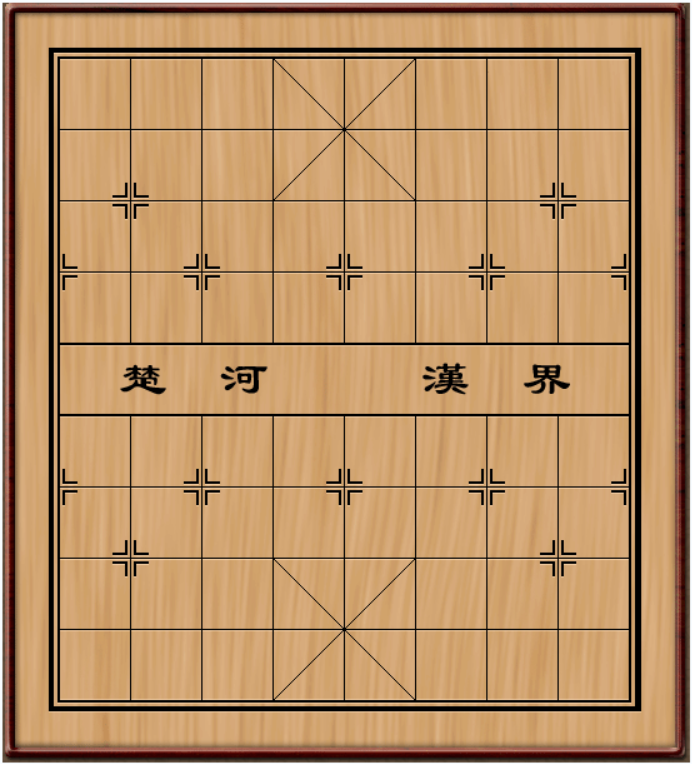
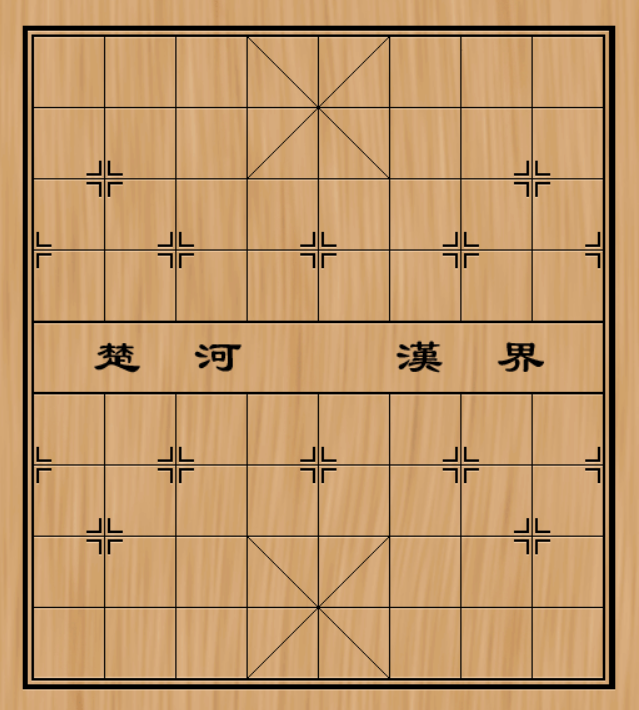
piece will automatically resize/reposition as the board resize

diff --git a/ChineseChess/src/edu/rpi/cs/csci4963/u20/hek2liaoy3wangy58yaol4/project/ChineseChess/Board.java b/ChineseChess/src/edu/rpi/cs/csci4963/u20/hek2liaoy3wangy58yaol4/project/ChineseChess/Board.java
@@ -72,59 +72,59 @@ public class Board extends JPanel implements MouseListener, MouseMotionListener 
 		for (int i = 1; i <= rowSize; i++) {
 			for (int j = 1; j <= colSize; j++) {
 				//System.out.println(i + " | " + j);
-				positionBoard[i][j] = new Position(i*pieceSize, j*pieceSize);
+				positionBoard[i][j] = new Position(i, j);
 			}
 		}
 
 
-		initializeAllPieces();
+//		initializeAllPieces();
 		
 	}
 	
 	/** this is the method that initialize all the pieces and place them to the desired position
 	 */
-	private void initializeAllPieces() {
+	public void initializeAllPieces() {
 		// Han side chess
 		// piece parameters: (PieceName, Side, size, Board)
-		R_R1 = new Piece(PieceName.Chariot, Side.Han, pieceSize, this);
-		R_K1 = new Piece(PieceName.Knight, Side.Han, pieceSize, this);
-		R_B1 = new Piece(PieceName.Bishop, Side.Han, pieceSize, this);
-		R_A1 = new Piece(PieceName.Advisor, Side.Han, pieceSize, this);
-		R_G = new Piece(PieceName.General, Side.Han, pieceSize, this);
-		R_A2 = new Piece(PieceName.Advisor, Side.Han, pieceSize, this);
-		R_B2 = new Piece(PieceName.Bishop, Side.Han, pieceSize, this);
-		R_K2 = new Piece(PieceName.Knight, Side.Han, pieceSize, this);
-		R_R2 = new Piece(PieceName.Chariot, Side.Han, pieceSize, this);
+		R_R1 = new Piece(PieceName.Chariot, Side.Han, pieceSize,pieceSize, this);
+		R_K1 = new Piece(PieceName.Knight, Side.Han, pieceSize,pieceSize, this);
+		R_B1 = new Piece(PieceName.Bishop, Side.Han, pieceSize,pieceSize, this);
+		R_A1 = new Piece(PieceName.Advisor, Side.Han, pieceSize,pieceSize, this);
+		R_G = new Piece(PieceName.General, Side.Han, pieceSize,pieceSize, this);
+		R_A2 = new Piece(PieceName.Advisor, Side.Han, pieceSize,pieceSize, this);
+		R_B2 = new Piece(PieceName.Bishop, Side.Han, pieceSize,pieceSize, this);
+		R_K2 = new Piece(PieceName.Knight, Side.Han, pieceSize,pieceSize, this);
+		R_R2 = new Piece(PieceName.Chariot, Side.Han, pieceSize,pieceSize, this);
 
-		R_C1 = new Piece(PieceName.Cannon, Side.Han, pieceSize, this);
-		R_C2 = new Piece(PieceName.Cannon, Side.Han, pieceSize, this);
+		R_C1 = new Piece(PieceName.Cannon, Side.Han, pieceSize,pieceSize, this);
+		R_C2 = new Piece(PieceName.Cannon, Side.Han, pieceSize,pieceSize, this);
 
-		R_P1 = new Piece(PieceName.Pawn, Side.Han, pieceSize, this);
-		R_P2 = new Piece(PieceName.Pawn, Side.Han, pieceSize, this);
-		R_P3 = new Piece(PieceName.Pawn, Side.Han, pieceSize, this);
-		R_P4 = new Piece(PieceName.Pawn, Side.Han, pieceSize, this);
-		R_P5 = new Piece(PieceName.Pawn, Side.Han, pieceSize, this);
+		R_P1 = new Piece(PieceName.Pawn, Side.Han, pieceSize,pieceSize, this);
+		R_P2 = new Piece(PieceName.Pawn, Side.Han, pieceSize,pieceSize, this);
+		R_P3 = new Piece(PieceName.Pawn, Side.Han, pieceSize,pieceSize, this);
+		R_P4 = new Piece(PieceName.Pawn, Side.Han, pieceSize,pieceSize, this);
+		R_P5 = new Piece(PieceName.Pawn, Side.Han, pieceSize,pieceSize, this);
 
 		// Chu side chess
 		// piece parameters: (PieceName, Side, size, Board)
-		B_R1 = new Piece(PieceName.Chariot, Side.Chu, pieceSize, this);
-		B_K1 = new Piece(PieceName.Knight, Side.Chu, pieceSize, this);
-		B_B1 = new Piece(PieceName.Bishop, Side.Chu, pieceSize, this);
-		B_A1 = new Piece(PieceName.Advisor, Side.Chu, pieceSize, this);
-		B_G = new Piece(PieceName.General, Side.Chu, pieceSize, this);
-		B_A2 = new Piece(PieceName.Advisor, Side.Chu, pieceSize, this);
-		B_B2 = new Piece(PieceName.Bishop, Side.Chu, pieceSize, this);
-		B_K2 = new Piece(PieceName.Knight, Side.Chu, pieceSize, this);
-		B_R2 = new Piece(PieceName.Chariot, Side.Chu, pieceSize, this);
+		B_R1 = new Piece(PieceName.Chariot, Side.Chu, pieceSize,pieceSize, this);
+		B_K1 = new Piece(PieceName.Knight, Side.Chu, pieceSize,pieceSize, this);
+		B_B1 = new Piece(PieceName.Bishop, Side.Chu, pieceSize,pieceSize, this);
+		B_A1 = new Piece(PieceName.Advisor, Side.Chu, pieceSize,pieceSize, this);
+		B_G = new Piece(PieceName.General, Side.Chu, pieceSize,pieceSize, this);
+		B_A2 = new Piece(PieceName.Advisor, Side.Chu, pieceSize,pieceSize, this);
+		B_B2 = new Piece(PieceName.Bishop, Side.Chu, pieceSize,pieceSize, this);
+		B_K2 = new Piece(PieceName.Knight, Side.Chu, pieceSize,pieceSize, this);
+		B_R2 = new Piece(PieceName.Chariot, Side.Chu, pieceSize,pieceSize, this);
 
-		B_C1 = new Piece(PieceName.Cannon, Side.Chu, pieceSize, this);
-		B_C2 = new Piece(PieceName.Cannon, Side.Chu, pieceSize, this);
+		B_C1 = new Piece(PieceName.Cannon, Side.Chu, pieceSize,pieceSize, this);
+		B_C2 = new Piece(PieceName.Cannon, Side.Chu, pieceSize,pieceSize, this);
 
-		B_P1 = new Piece(PieceName.Pawn, Side.Chu, pieceSize, this);
-		B_P2 = new Piece(PieceName.Pawn, Side.Chu, pieceSize, this);
-		B_P3 = new Piece(PieceName.Pawn, Side.Chu, pieceSize, this);
-		B_P4 = new Piece(PieceName.Pawn, Side.Chu, pieceSize, this);
-		B_P5 = new Piece(PieceName.Pawn, Side.Chu, pieceSize, this);
+		B_P1 = new Piece(PieceName.Pawn, Side.Chu, pieceSize,pieceSize, this);
+		B_P2 = new Piece(PieceName.Pawn, Side.Chu, pieceSize,pieceSize, this);
+		B_P3 = new Piece(PieceName.Pawn, Side.Chu, pieceSize,pieceSize, this);
+		B_P4 = new Piece(PieceName.Pawn, Side.Chu, pieceSize,pieceSize, this);
+		B_P5 = new Piece(PieceName.Pawn, Side.Chu, pieceSize,pieceSize, this);
 		
 		// (x , y)
 		positionBoard[1][10].placePiece(R_R1, this);
@@ -206,18 +206,19 @@ public class Board extends JPanel implements MouseListener, MouseMotionListener 
 			j++;
 		}
 		
-//		for (int i = 1; i <= rowSize; i++) {
-//			for (int k = 1; k <= colSize; k++) {
-//				//System.out.println(i + " | " + j);
-//				if(positionBoard[i][k].getPiece() != null) {					
-////					positionBoard[i][k].getPiece().setLocation(200,200);
+		for (int i = 1; i <= rowSize; i++) {
+			for (int k = 1; k <= colSize; k++) {
+				//System.out.println(i + " | " + j);
+				if(positionBoard[i][k].getPiece() != null) {						
+					positionBoard[i][k].rePlacePiece();					
+//					positionBoard[i][k].getPiece().setLocation(200,200);
 //					positionBoard[i][k].getPiece().validate();
 //					positionBoard[i][k].getPiece().repaint();
-////					positionBoard[i][k].getPiece().setVisible(true);
-////					System.out.println(positionBoard[i][k].getPiece().toString()); 
-//				}
-//			}
-//		}
+//					positionBoard[i][k].getPiece().setVisible(true);
+//					System.out.println(positionBoard[i][k].getPiece().toString()); 
+				}
+			}
+		}
 		
 		
 		try {

diff --git a/ChineseChess/src/edu/rpi/cs/csci4963/u20/hek2liaoy3wangy58yaol4/project/ChineseChess/Piece.java b/ChineseChess/src/edu/rpi/cs/csci4963/u20/hek2liaoy3wangy58yaol4/project/ChineseChess/Piece.java
@@ -16,6 +16,7 @@ public class Piece extends JLabel{
 	private PieceName name; // the classification of the piece
 	private Side side; // the side of the chess piece
 	private int length; // the length of the piece to be painted
+	private int width; // the width of the piece to be painted
 	private int padding = 2; // the padding for drawing content
 	private Board board; // the board that this piece lies on
 	//TODO: Implement the interaction with the chess board(not yet implemented)
@@ -41,12 +42,14 @@ public class Piece extends JLabel{
 	 * @param nameIn the classification of the piece
 	 * @param side the side of the piece
 	 * @param length length of the piece (length parameter)
+	 * @param width the width of the piece
 	 * @param board the board this piece lies on
 	 */
-	public Piece(PieceName nameIn, Side side, int length, Board board) {
+	public Piece(PieceName nameIn, Side side, int length, int width, Board board) {
 		this.name = nameIn;
 		this.side = side;
 		this.length = length;
+		this.width = width;
 		this.board = board;
 		setSize(length,length);
 		setBackground(Color.PINK);
@@ -147,6 +150,23 @@ public class Piece extends JLabel{
 	public int getLength() {
 		return length;
 	}
+	
+	
+	public void setLength(int len) {
+		this.length = len;
+	}
+	
+	public void setWidth(int wid) {
+		this.width = wid;
+	}
+	
+	
+	/** getter for width
+	 * @return width of the piece
+	 */
+	public int getWidth() {
+		return width;
+	}
 
 
 
@@ -156,7 +176,7 @@ public class Piece extends JLabel{
 		JFrame frame = new JFrame();
 		frame.setDefaultCloseOperation(JFrame.EXIT_ON_CLOSE);
 		frame.setBounds(100,100,300,300);
-		frame.add(new Piece(PieceName.General, Side.Han, 100, new Board(200,100,10)));
+		frame.add(new Piece(PieceName.General, Side.Han, 100,100, null));
 		frame.setVisible(true);
 	}
 

diff --git a/ChineseChess/src/edu/rpi/cs/csci4963/u20/hek2liaoy3wangy58yaol4/project/ChineseChess/Position.java b/ChineseChess/src/edu/rpi/cs/csci4963/u20/hek2liaoy3wangy58yaol4/project/ChineseChess/Position.java
@@ -61,10 +61,32 @@ public class Position {
 	public void placePiece(Piece p, Board b) {
 		this.piece = p;
 		this.board = b;
-		int size = p.getLength();	
+		
+		int len = board.getHeight()/10;
+		int wid = board.getWidth()/9;
+		
+		this.piece.setLength(len);
+		this.piece.setWidth(wid);
+		
+		System.out.println("wid:" + wid + "len:" + len);
+		
+//		int size = p.getLength();	
 		board.add(piece); // add the chess piece to the [x][y] coordinate
 		// set the position to the center of drawing by halving the unit size
-		piece.setBounds(this.x - size/2, this.y - size/2, size, size);
+		piece.setBounds(this.x * wid - wid, this.y*len - len, wid, len);
+		this.hasPiece = true;
+		//this.board.validate();
+	}
+	
+	/** place the piece p on this (position) on the board b */
+	public void rePlacePiece() {
+
+		int len = board.getHeight()/10;
+		int wid = board.getWidth()/9;		
+		this.piece.setLength(len);
+		this.piece.setWidth(wid);
+		
+		piece.setBounds(this.x * wid - wid, this.y*len - len, wid, len);
 		this.hasPiece = true;
 		//this.board.validate();
 	}

diff --git a/ChineseChess/src/edu/rpi/cs/csci4963/u20/hek2liaoy3wangy58yaol4/project/ChineseChess/GUI.java b/ChineseChess/src/edu/rpi/cs/csci4963/u20/hek2liaoy3wangy58yaol4/project/ChineseChess/GUI.java
@@ -377,6 +377,7 @@ public class GUI extends JFrame{
 
 	public static void main(String[] args) throws IOException {
 		GUI gui = new GUI();
+		gui.boardPanel.initializeAllPieces();
 //		gui.displayMsg("Hello");
 //		gui.displayMsg("LONGGGGGGGGGGGG msg example");
 	}
